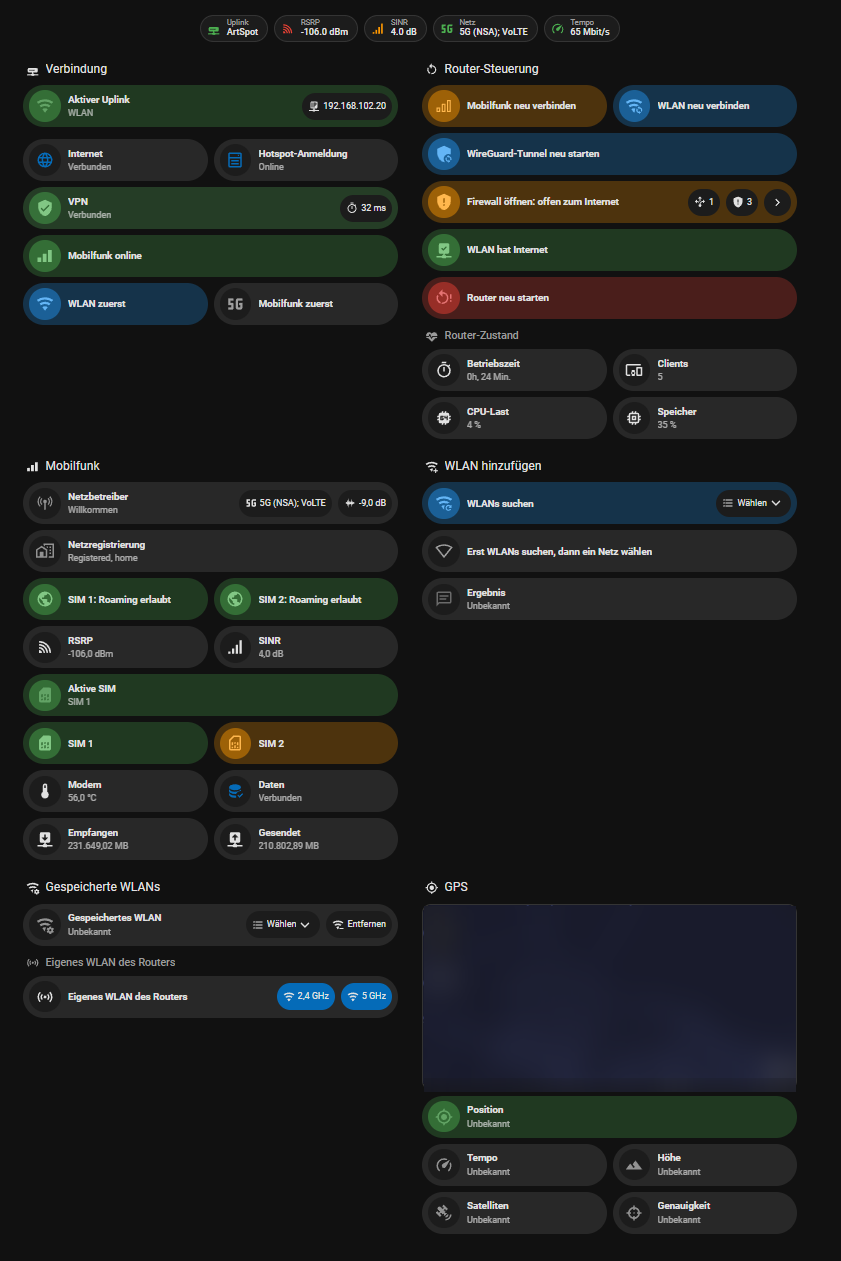
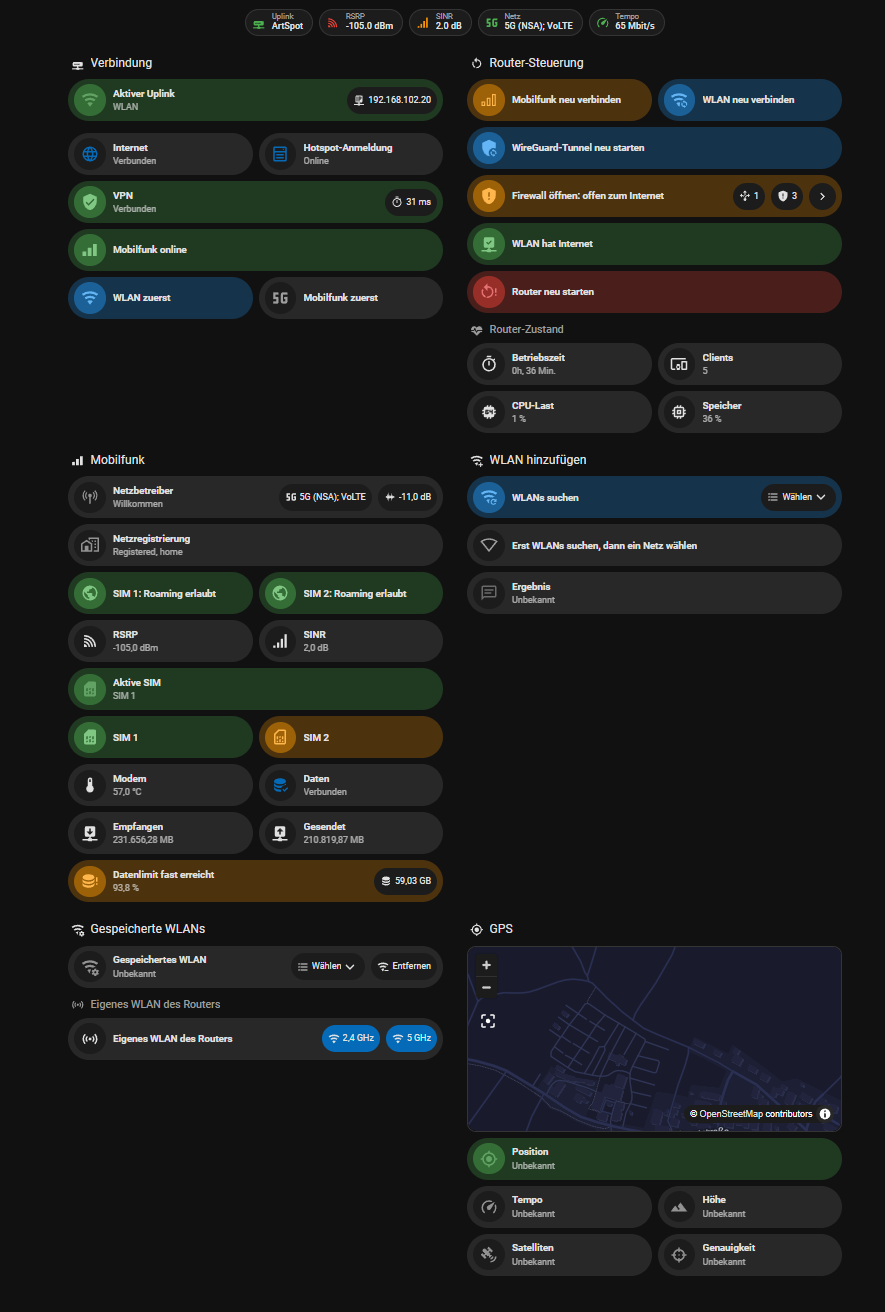
Docs: data limit units and what happens when the limit is reached

Changed region(s): [[0.0309, 0.0, 0.9584, 0.9897], [0.6801, 0.8351, 0.7111, 0.866]]

diff --git a/README.md b/README.md
@@ -397,6 +397,18 @@ example above 80) for your notifications. The router sets the limit and the
 reset day, the integration only reads them. No entities appear while no limit
 is enabled on the router or the user may not read the page.
 
+The router takes the limit in MB but counts them as 1024 × 1024 bytes, while
+Home Assistant shows gigabytes of 1,000,000,000 bytes. A limit of 60000 MB
+therefore shows as 62.9 GB in the **Data limit** sensor, and the percentage is
+the same as on the router. Compare the percentage, not the gigabytes, with the
+router's web interface.
+
+**When the limit is reached the router switches the mobile data off**, unless
+you turn on **Enable rate limit** in the limit settings, which slows the
+connection down instead. On a router that you reach through its mobile data,
+for example in a camper, set the limit above your plan or use the rate limit,
+or you cut yourself off.
+
 ### Failover
 
 The router checks its uplinks with its failover function (Network, Failover)
